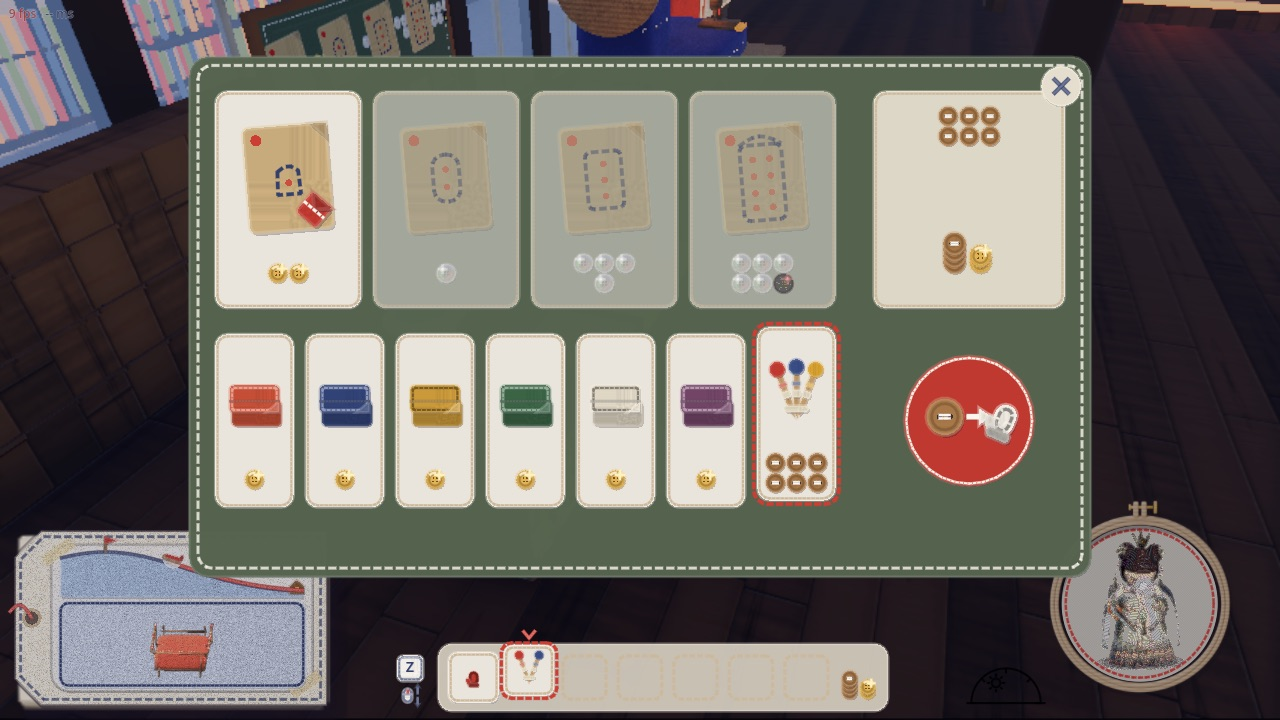
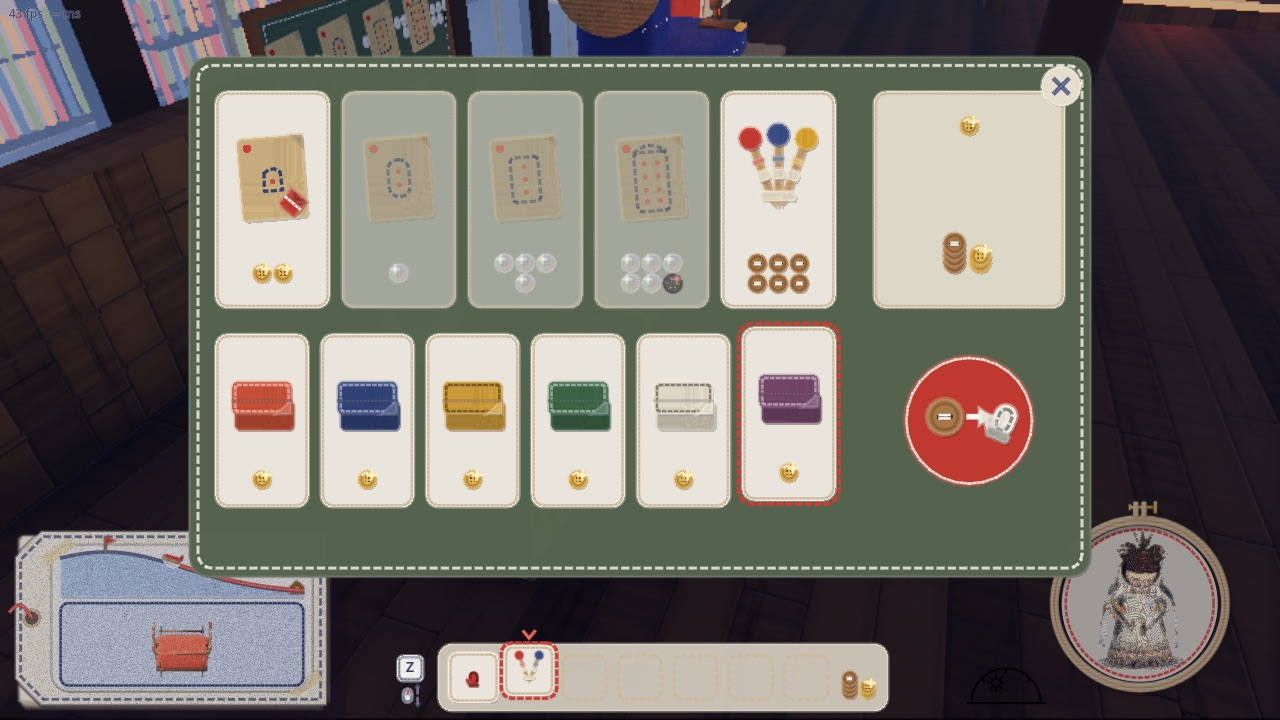
ペグの品目の定義を peg.gd にまとめ、売り台の並びを焚き火（#108）に合わせて仮置きにする
- 名前・値段・束の本数・まとまる本数・刺せる速さ・絵（束と案内）を peg.gd の上にまとめた。craft・craft_icons・craft_ui はそこを読む
- 本当の売り場は山の道具を売る山男。それまで仮に、おじさんの売り台の型紙の段の右端に並べる
- 売り台の段分けは #108 と同じ書き方（布でない品は上の段）

diff --git a/design/controls-and-physics.md b/design/controls-and-physics.md
@@ -312,7 +312,7 @@
 
 代表の言葉:「ペグを売って欲しい。斜面にそりを留める消耗品があると休憩したり焚き火ができる。」
 
-- **売り場**：型紙と布の売り子のおじさんの売り台（布の段の右の端）。3 本の束でボタン 6 個（`craft.gd` の `PEG_PRICE`・`PEG_PACK`）。買い足すと持っている束にまとまる（1 つの場所に 9 本まで）
+- **売り場**：本当の売り場は、山の道具を売る山男（別の作業）。それまでは仮に、型紙と布の売り子のおじさんの売り台（型紙の段の右の端）。3 本の束でボタン 6 個。買い足すと持っている束にまとまる（1 つの場所に 9 本まで）。名前・値段・束の本数・絵は `game/peg.gd` の上（`NAME`・`PRICE`・`PACK`・`STACK`・`item()`・`icon()`）にまとめてあり、売り場はそこを読む
 - **形**：大きな待ち針（`game/peg.gd`）。白木の杭に生成りの毛糸を巻き、てっぺんにフェルトの玉。玉の色は刺した人のキャラの色。持ち物の列では本数だけ待ち針を扇に並べた絵
 - **刺す**：ペグを手に持ち、ソリの前の雪に立って左クリック。足もとの少し前（0.7 m）が、まだ留めていないソリの引き紐の付け根から紐の長さ（中 3 m・米袋 1.2 m）の中なら、ペグが打ち込まれ、引き紐の先が巻きに結ばれる。1 本減り、0 本で束が消える。ロッジの床には刺さらない。歩いて追いつける速さ（3 m/s）までは滑っているソリにも刺せ、紐が張ったところで止まる
 - **留めているあいだ**：乗っていても、どんな坂でも止まっている（静止摩擦の上限を重さの 1.2 倍に）。乗ったまま前傾で雪をかいても、米袋で蹴っても進まない（休んでいる人がうっかり W を押しても滑り出さない）。押すと紐のたるみの分だけ動き、紐が張るとばねで引き戻す（大に 8 人で押しても伸びは 0.15 m ほど）。紐は持てない。畳めない
